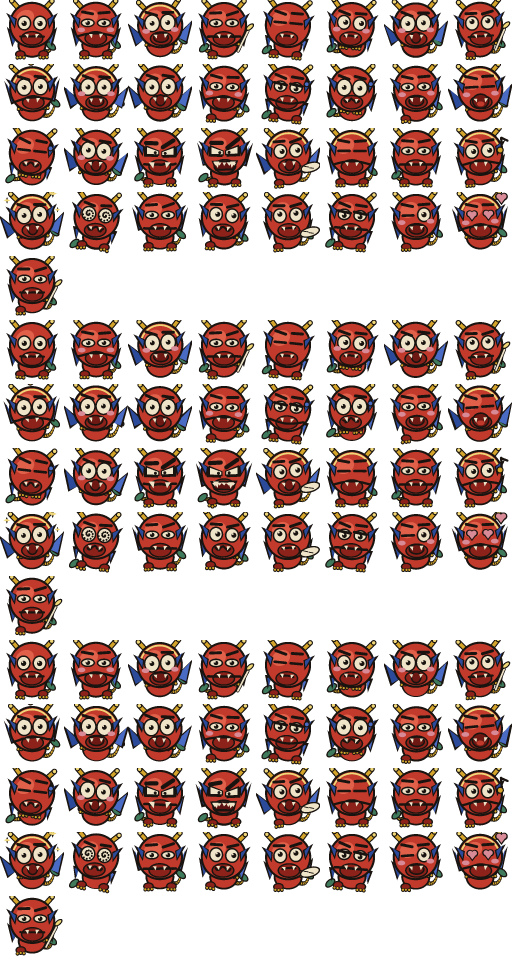
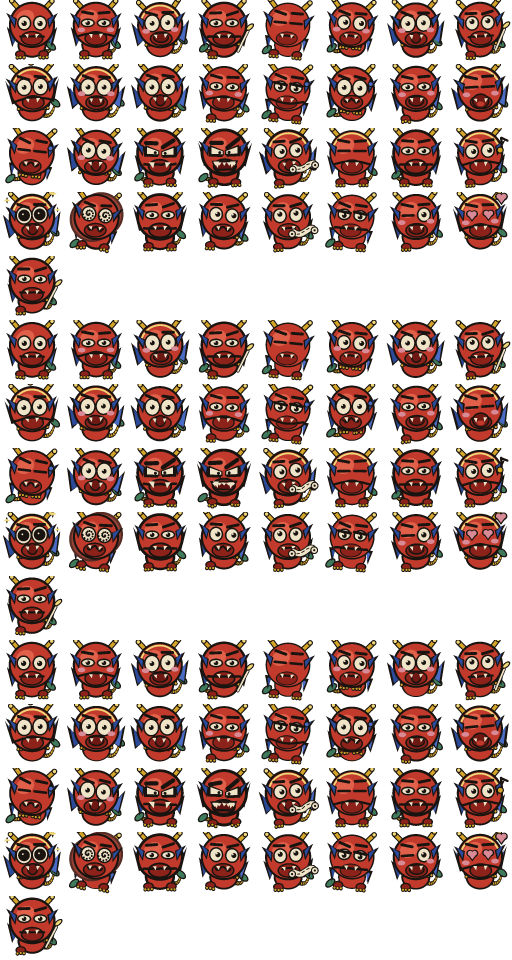
feat: v0.66.0 - Drollery v5 wired

diff --git a/scripts/gen-drollery.js b/scripts/gen-drollery.js
@@ -44,6 +44,13 @@ const C = {
   rose:   [216, 138, 150, 255]
 };
 
+// How hard the pen is pressed, per mood. Default 1; below 1 the creature is drawn faintly
+// and reads as fading, above 1 it is bitten into the page. Sepia and Kip cannot do this.
+const INKW = {
+  sleepy: 0.66, weary: 0.70, melancholy: 0.74, at_peace: 0.82, tender: 0.88, sheepish: 0.9,
+  groan: 0.92, anxious: 0.94, focused: 1.16, working: 1.12, solemn: 1.26, resolute: 1.32,
+  frustrated: 1.28, angry: 1.40, dramatic: 1.18, awe: 1.1
+};
 const CELL = 64, SS = 4;                       // 4x4 supersampling -> smooth bold strokes
 const COLS = 8, FRAMES = 3;
 
@@ -119,7 +126,8 @@ const EYES = {
   heart:  { heart: true },
   wink:   { winkL: true, rx: 4.6, ry: 5.0, pupil: 2.2 },
   glare:  { rx: 4.8, ry: 3.0, pupil: 2.3, py: -0.4, brow: 1 },
-  wrath:  { rx: 5.6, ry: 4.2, pupil: 1.5, wedge: 1, brow: 1 }   // angular, not round: the whole point
+  wrath:  { rx: 5.6, ry: 4.2, pupil: 1.5, wedge: 1, brow: 1 },  // angular, not round: the whole point
+  blown:  { rx: 5.8, ry: 6.4, pupil: 4.9, py: 0 }               // the pupil eats the eye: awe, not surprise
 };
 const MOUTHS = {
   line:   { kind: "arc", w: 1.9, span: 0.30, bend: 0.0 },
@@ -169,7 +177,7 @@ const M = {
   at_peace:   ["shut", "smile", 0.1, 0.3, 0, 0, 1, 0.3, "fold", "grip", 0],
   solemn:     ["narrow", "flat", -0.1, -0.1, 0, 0, 0, 0.4, "fold", "grip", 0],
   rhyme:      ["side", "smile", 0.1, 0.6, -0.05, 0, 1, 0.9, "fold", "one", "note"],
-  awe:        ["wide", "open", 0.35, 0.7, -0.06, 0, 1, 0.8, "spread", "up", "star"],
+  awe:        ["blown", "open", 0.35, 0.7, -0.06, 0, 1, 0.8, "spread", "up", "star"],
   vertigo:    ["spiral", "wave", 0.2, -0.6, 0.12, 0, 0, 2.2, "droop", "grip", 0],
   resolute:   ["narrow", "flat", -0.35, 0.4, 0, 0, 0, 0.6, "raise", "grip", 0],
   puzzled:    ["side", "wave", -0.25, 0.1, 0.07, 0, 0, 1.0, "fold", "one", 0],
@@ -183,6 +191,7 @@ const M = {
 function build(mood, frame) {
   const [eyeK, mouthK, brow, tail, tilt, blush, gild, boil, wingK, handK, prop] = M[mood];
   const R = rng(mood.length * 9173 + frame * 7717 + mood.charCodeAt(0) * 131);
+  const iw = INKW[mood] || 1;                              // the pen's pressure this mood
   const J = 0.55 * boil;                                   // the hand's own steadiness, per mood                                          // the boil: sub-pixel wobble, per frame
   const jx = () => (R() - 0.5) * J, jy = () => (R() - 0.5) * J;
   const S = [];
@@ -222,7 +231,7 @@ function build(mood, frame) {
   S.push(ell(tx, ty, 4.6, 2.4, tDir * 0.7, C.verd));
 
   // ── folded wings, lapis, behind the shoulders — the one place the blue survives
-  const WG = { fold: [25, 2, 20, 22], spread: [33, -4, 26, 20], raise: [28, -10, 22, 14], droop: [22, 12, 18, 26] }[wingK];
+  const WG = { fold: [25, 2, 20, 22], spread: [29, -4, 24, 20], raise: [27, -10, 21, 14], droop: [22, 12, 18, 26] }[wingK];
   [-1, 1].forEach((sd) => {
     const w1 = P(hx + sd * 15, hy + 12), w2 = P(hx + sd * WG[0], hy + WG[1]), w3 = P(hx + sd * WG[2], hy + WG[3]);
     S.push(poly([[w1[0], w1[1]], [w2[0], w2[1]], [w3[0], w3[1]]], C.ink));
@@ -231,7 +240,7 @@ function build(mood, frame) {
   });
 
   // ── the crouching body
-  S.push(ell(hx, 45 + jy(), 14.5, 12.5, 0, C.ink));
+  S.push(ell(hx, 45 + jy(), 12.6 + 1.9 * iw, 10.8 + 1.7 * iw, 0, C.ink));
   S.push(ell(hx, 45 + jy(), 12.6, 10.8, 0, C.body));
   S.push(ell(hx - 4, 41.5 + jy(), 5.5, 4.2, -0.4, C.bodyL));
 
@@ -260,7 +269,13 @@ function build(mood, frame) {
   });
 
   // ── head
-  S.push(disc(hx, hy, HR + 2.1, C.ink));
+  if (mood === "vertigo") {                                // the drawing refuses to settle on one outline
+    [[-4.5, 2.5], [4.5, -2.5]].forEach((off) => {
+      S.push(disc(hx + off[0], hy + off[1], HR + 1.4, [86, 44, 36, 255]));
+      S.push(disc(hx + off[0], hy + off[1], HR - 0.8, [150, 66, 54, 255]));
+    });
+  }
+  S.push(disc(hx, hy, HR + 2.1 * iw, C.ink));
   S.push(disc(hx, hy, HR, C.body));
   S.push(ell(hx - 7, hy - 7, 9.5, 7.5, -0.5, C.bodyL));
   if (gild) arcStroke(hx, hy, HR - 1.4, 3.5, 5.9, 1.8, C.goldL, S, 1);
@@ -333,7 +348,7 @@ function build(mood, frame) {
   // ── THE UNDERBITE. A jutting lower jaw with two fangs pointing up — impudent, unmistakably
   // gargoyle, and the single feature neither Sepia nor Kip has anywhere in their vocabulary.
   const jw = P(hx, hy + 13.5);
-  S.push(ell(jw[0], jw[1], 11.5, 7.4, 0, C.ink));
+  S.push(ell(jw[0], jw[1], 10.0 + 1.5 * iw, 6.0 + 1.4 * iw, 0, C.ink));
   S.push(ell(jw[0], jw[1], 10.0, 6.0, 0, C.bodyD));
   const mo = MOUTHS[mouthK], my = hy + 11.5;
   if (mo.kind === "arc") {
@@ -395,12 +410,26 @@ function drawProp(S, kind, hx, hy, P, C, disc, ell, capsule, poly) {
     S.push(ell(f[0], f[1] + 0.6, 3.2, 4.8, 0, C.gold));
     S.push(ell(f[0], f[1] + 1.6, 1.6, 2.4, 0, C.goldL));
   } else if (kind === "scroll") {
-    const c = P(hx + 21, hy + 16);
-    S.push(ell(c[0], c[1], 10.5, 5.2, -0.28, C.ink));
-    S.push(ell(c[0], c[1], 9.0, 3.8, -0.28, C.parch));
-    for (let k = -1; k <= 1; k++) {
-      const l0 = P(hx + 15 + k * 5, hy + 15 + k * 1.4), l1 = P(hx + 19 + k * 5, hy + 16 + k * 1.4);
-      S.push(capsule(l0[0], l0[1], l1[0], l1[1], 0.9, C.ink));
+    const seg = [];
+    for (let k = 0; k <= 8; k++) {
+      const u = k / 8;
+      seg.push(P(hx + 5 + u * 19, hy + 15 + Math.sin(u * Math.PI * 1.6) * 2.6));
+    }
+    for (let k = 1; k < seg.length; k++) {                   // the ribbon itself
+      S.push(capsule(seg[k - 1][0], seg[k - 1][1], seg[k][0], seg[k][1], 7.0, C.ink));
+    }
+    for (let k = 1; k < seg.length; k++) {
+      S.push(capsule(seg[k - 1][0], seg[k - 1][1], seg[k][0], seg[k][1], 5.2, C.parch));
+    }
+    [seg[0], seg[seg.length - 1]].forEach((e, ei) => {       // curled ends — the tell
+      const d = ei === 0 ? -1 : 1;
+      S.push(disc(e[0] + d * 1.8, e[1] + 2.0, 3.9, C.ink));
+      S.push(disc(e[0] + d * 1.8, e[1] + 2.0, 2.8, C.parch));
+      S.push(disc(e[0] + d * 1.8, e[1] + 2.0, 1.1, C.ink));
+    });
+    for (let k = 0; k < 3; k++) {                            // ruled writing
+      const a = seg[2 + k * 2], b = seg[3 + k * 2];
+      if (a && b) S.push(capsule(a[0] - 1.6, a[1], b[0] - 1.6, b[1], 0.9, C.ink));
     }
   } else if (kind === "note") {
     const n0 = P(hx + 22, hy - 14), n1 = P(hx + 22, hy - 3);